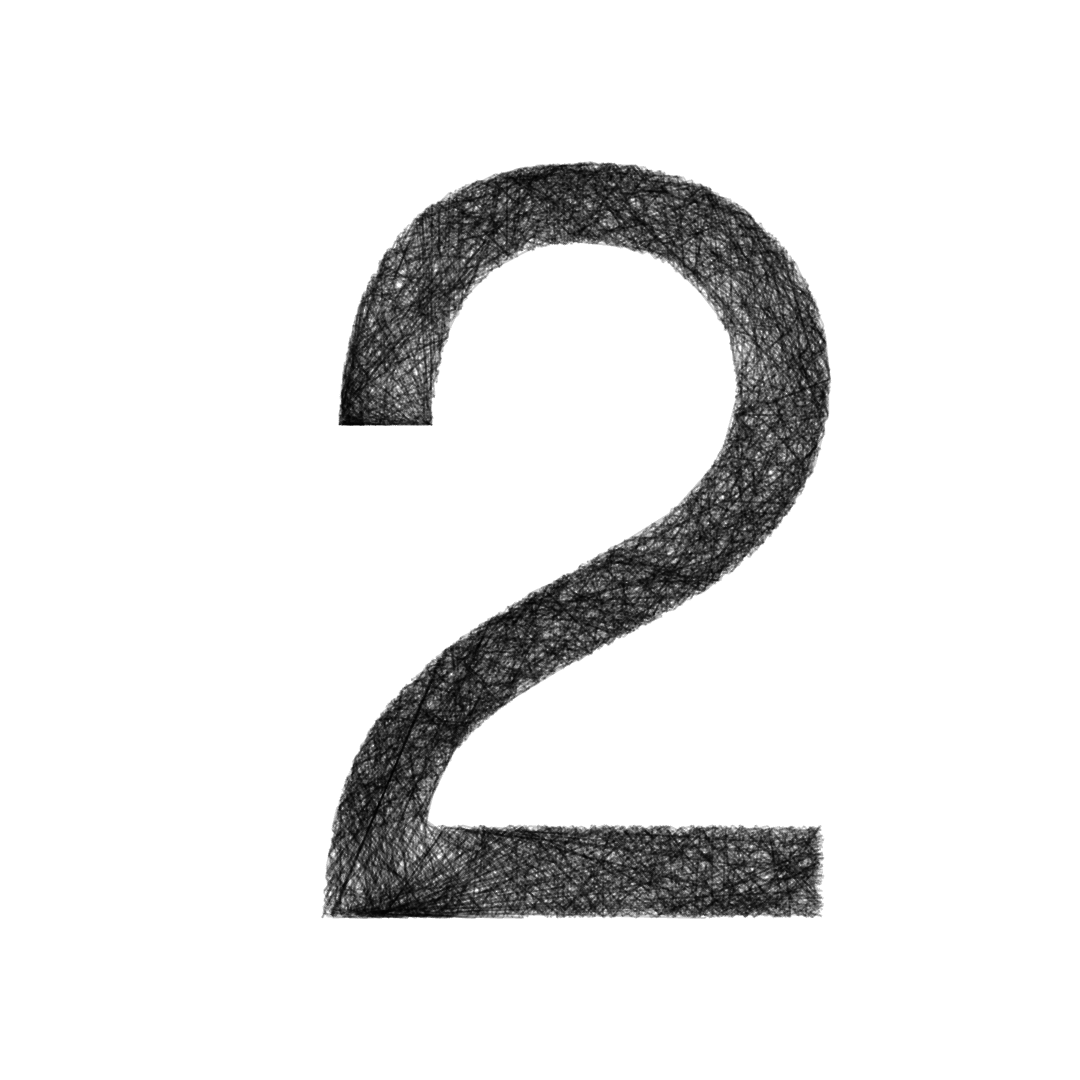
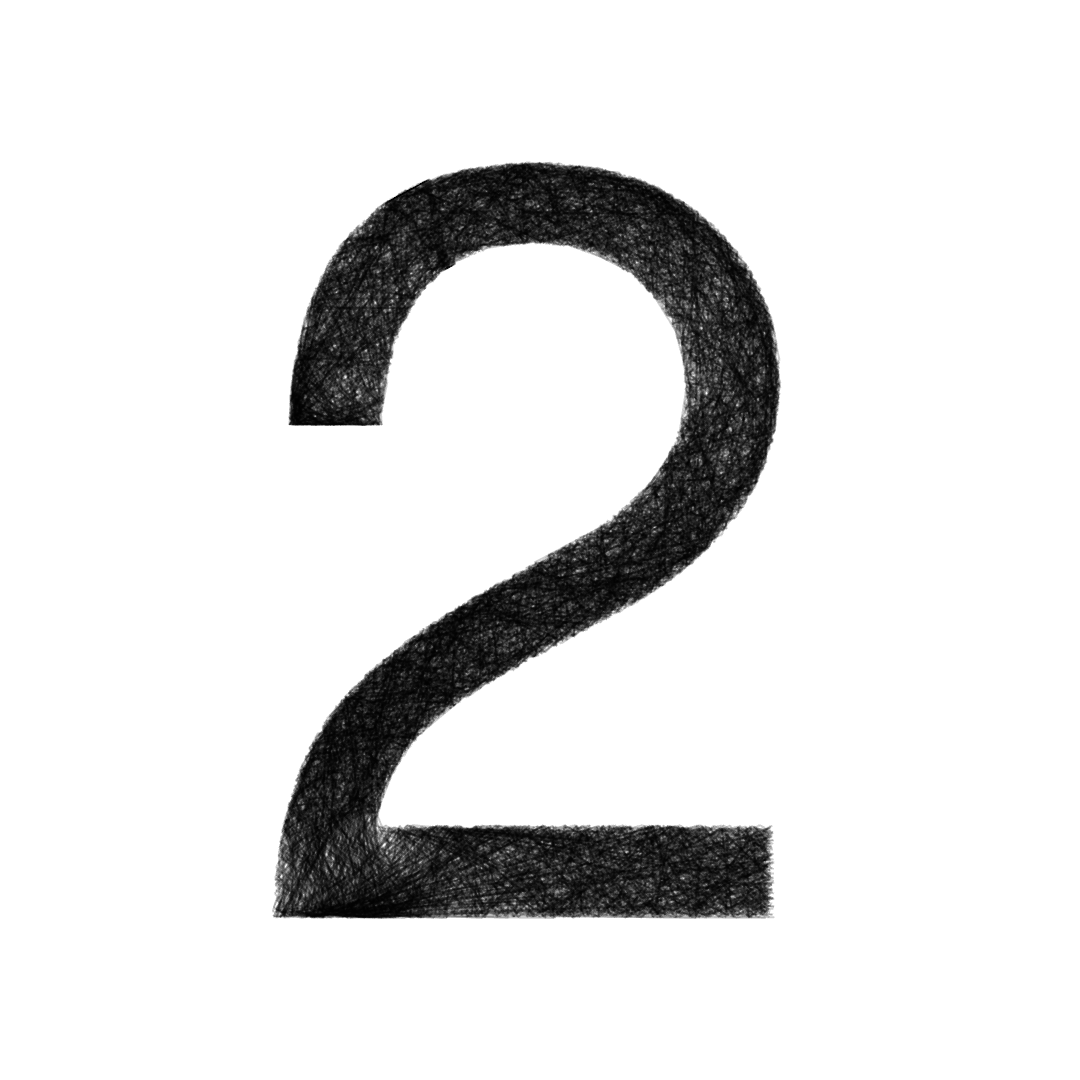
fix(post002 output centered)

Changed region(s): [[0.2444, 0.1528, 0.7944, 0.8556]]

diff --git a/post002/src/ofApp.h b/post002/src/ofApp.h
@@ -46,7 +46,7 @@ struct Shape
     toCenter()
     {
         auto bbox = getBoundingBox();
-        float x = ofGetWindowWidth() / 2 - bbox.width / 2;
+        float x = ofGetWindowWidth() / 2 - bbox.width / 2 - 50;
         float y = ofGetWindowHeight() / 2 + bbox.height / 2;
         path.translate(ofVec2f(x, y));
     }

diff --git a/post002/src/ofApp.cpp b/post002/src/ofApp.cpp
@@ -38,7 +38,7 @@ ofApp::setup()
         auto v1 = shape->getVertices()[124];
         auto v2 = shape->getVertices()[125];
 
-        int numLines = 200;
+        int numLines = 300;
         lines.resize(numLines);
         for(int i = 0; i < numLines; i++)
         {
